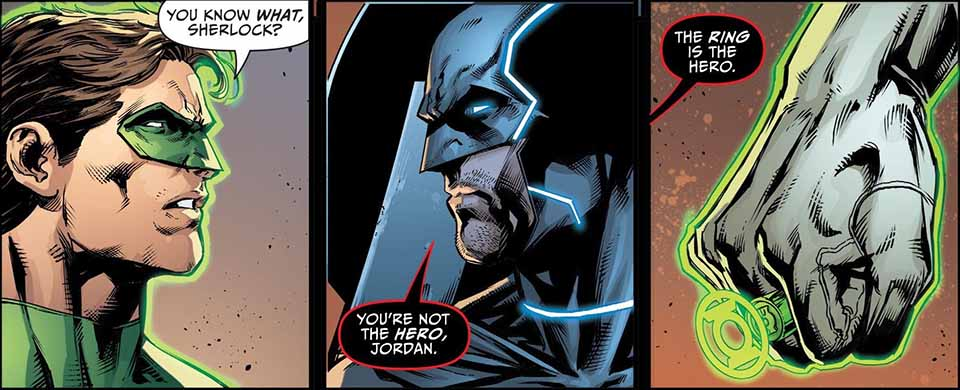
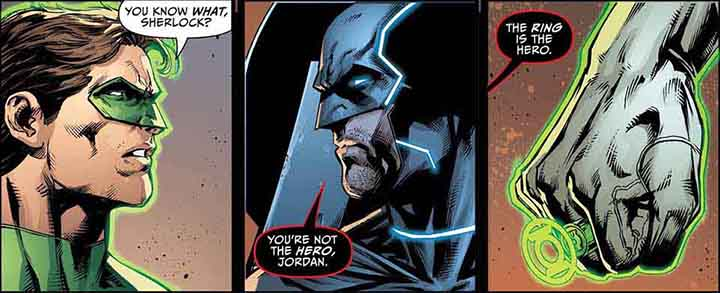
压缩图片

diff --git a/docs/batlantern/漫画互动总结.md b/docs/batlantern/漫画互动总结.md
@@ -6,7 +6,9 @@ redirect_from: /batlantern/漫画互动总结
 
 本列表按推荐阅读顺序排序（1994-2011部分，因为有大事件穿插，所以按时间排序，其中连载刊按第一刊出版时间的排序，而不是按我提到的剧情发生时间的排序）。
 
-为了节约流量，本页面的图片经过压缩，[点击此处](./漫画互动总结-高清.html)查看高清页面。
+为了节约流量，本页面的图片经过压缩，全页面约2.3M。
+
+[点击此处](./漫画互动总结-高清.html)查看高清页面（约23M）。
 
 ## [Justice League New52 (2011 - 2016)](https://getcomics.info/dc/justice-league-vol-1-5-tpb/)
 

diff --git a/docs/batlantern/漫画互动总结-高清.md b/docs/batlantern/漫画互动总结-高清.md
@@ -2,7 +2,9 @@
 
 本列表按推荐阅读顺序排序（1994-2011部分，因为有大事件穿插，所以按时间排序，其中连载刊按第一刊出版时间的排序，而不是按我提到的剧情发生时间的排序）。
 
-本页面为高清图片，耗费流量较多，[点击此处](./漫画互动总结.html)查看压缩后的版本。
+本页面为高清图片，耗费流量较多，约23M。
+
+[点击此处](./漫画互动总结.html)查看压缩后的版本，约2.3M。
 
 ## [Justice League New52 (2011 - 2016)](https://getcomics.info/dc/justice-league-vol-1-5-tpb/)
 
